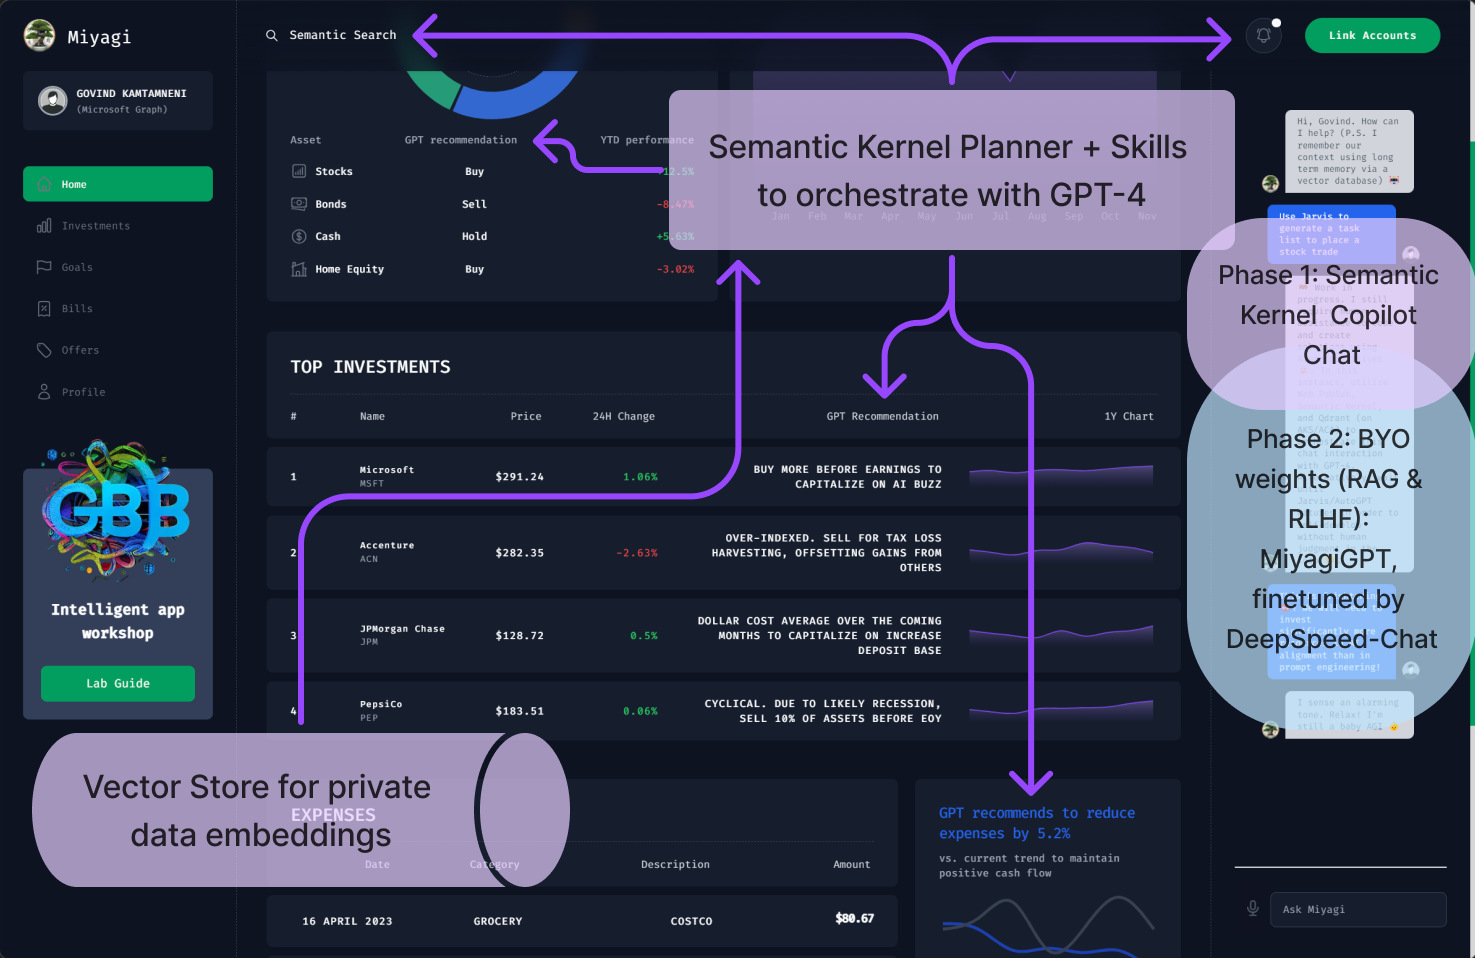
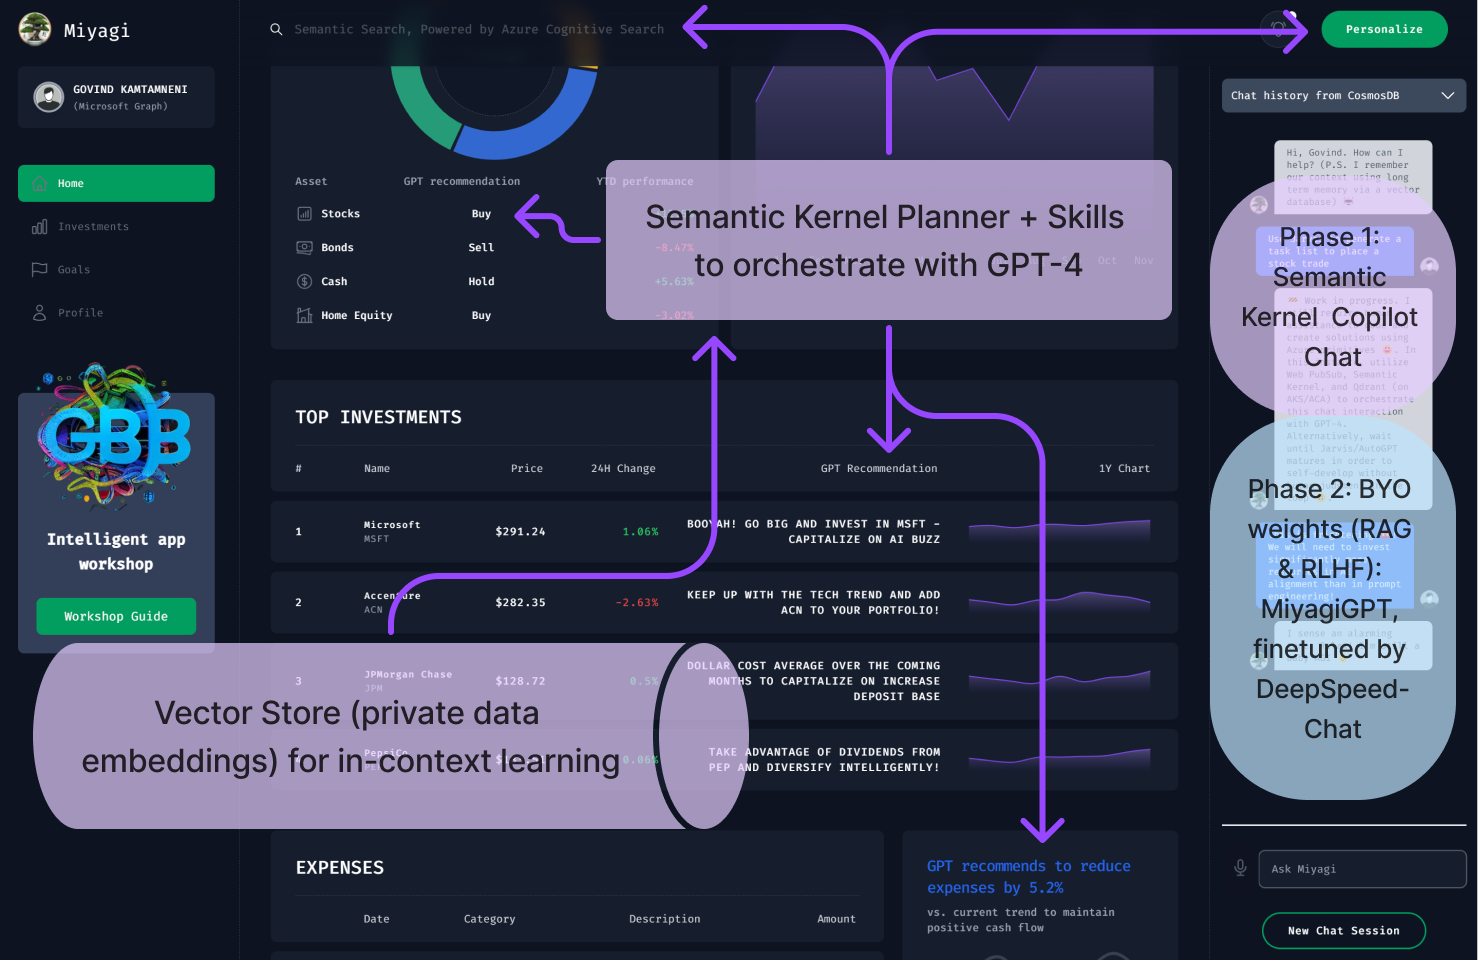
add chat session history on ui

diff --git a/services/frontend/src/components/chat/chat-session-list.tsx b/services/frontend/src/components/chat/chat-session-list.tsx
@@ -1,0 +1,76 @@
+import {Listbox} from "@headlessui/react";
+import cn from "classnames";
+import {ChevronDownIcon} from "@heroicons/react/24/outline";
+import {Fragment, useEffect, useState} from "react";
+import {Transition} from "@/components/ui/transition";
+
+export function ChatSessionList({ className }: { className?: string }) {
+    const [chatSessions, setChatSessions] = useState<any[]>([]);
+    const [selectedSession, setSelectedSession] = useState<any | null>(null);
+
+    useEffect(() => {
+        async function fetchChatSessions() {
+            const response = await fetch("https://f4b7e98a-6c02-41e7-8c24-e735ae1b5b78.mock.pstmn.io/chatSession/getAllChats/govind-k.copilot-chat");
+            const data = await response.json();
+            setChatSessions(data);
+            setSelectedSession(data[data.length - 1]);
+            console.log("Chat sessions");
+            console.dir(chatSessions);
+            console.dir(selectedSession);
+        }
+        fetchChatSessions().then(r => console.log(r));
+    }, []);
+
+    return (
+        <div className="relative w-full lg:w-auto mt-4">
+            <Listbox value={selectedSession} onChange={setSelectedSession}>
+                <Listbox.Button
+                    className={cn(
+                        "flex h-11 w-full items-center justify-between gap-1 rounded-lg bg-slate-600/80 px-3 text-sm text-white",
+                        className
+                    )}
+                >
+                    {selectedSession?.name || "Chat history from CosmosDB"}
+                    <ChevronDownIcon className="h-auto w-6" />
+                </Listbox.Button>
+                <Transition
+                    as={Fragment}
+                    enter="ease-out duration-200"
+                    enterFrom="opacity-0 translate-y-2"
+                    enterTo="opacity-100"
+                    leave="ease-in duration-200"
+                    leaveFrom="opacity-100 -translate-y-0"
+                    leaveTo="opacity-0 translate-y-2"
+                >
+                    <Listbox.Options
+                        className="absolute z-20 mt-2 w-full min-w-[150px] origin-top-right rounded-lg bg-white p-3 px-1.5 shadow-large shadow-gray-400/10 ltr:right-0 rtl:left-0 dark:bg-[rgba(0,0,0,0.5)] dark:shadow-gray-900 dark:backdrop-blur"
+                    >
+                        {chatSessions.map((chat) => {
+                            const chatIdParts = chat.id.split("-");
+                            const chatLabel = chatIdParts[chatIdParts.length - 1];
+
+                            return (
+                                <Listbox.Option
+                                    key={chat.id}
+                                    value={{ ...chat, name: chatLabel }}
+                                >
+                                    {({ selected }) => (
+                                        <div
+                                            className={`block cursor-pointer rounded-lg px-3 py-2 text-sm font-medium text-gray-900 transition dark:text-white  ${
+                                                selected
+                                                    ? "my-1 bg-gray-100 dark:bg-gray-700"
+                                                    : "hover:bg-gray-50 dark:hover:bg-gray-700"
+                                            }`}
+                                        >
+                                            {chatLabel}
+                                        </div>
+                                    )}
+                                </Listbox.Option>
+                            );
+                        })}
+                    </Listbox.Options>
+                </Transition>
+            </Listbox>
+        </div>
+    );
+}

diff --git a/services/frontend/src/data/static/chats.tsx b/services/frontend/src/data/static/chats.tsx
@@ -1,37 +1,47 @@
 export const Chats = [
     {
-        id: 1,
-        actor: 'miyagi',
-        message: 'Hi, Govind. How can I help? (P.S. I remember our context using long term memory via a vector database) 🤖',
-        timestamp: '',
-        config: {}
+        id: "1",
+        content: 'Hi, Govind. How can I help? (P.S. I remember our context using long term memory via a vector database) 🤖',
+        timestamp: '2023-05-04T00:23:50.7919402+00:00',
+        userId: 'bot',
+        userName: 'bot',
+        chatId: '',
+        authorRole: 1
     },
     {
-        id: 2,
-        actor: 'user',
-        message: 'Use Jarvis to generate a task list to place a stock trade',
-        timestamp: '',
-        config: {}
+        id: "2",
+        content: 'Use Jarvis to generate a task list to place a stock trade',
+        timestamp: '2023-05-04T00:24:05.1234567+00:00',
+        userId: 'govind',
+        userName: 'govind',
+        chatId: '',
+        authorRole: 0
     },
     {
-        id: 3,
-        actor: 'miyagi',
-        message: '🚧 Work in progress. I still require human assistance to code and create solutions using Azure primitives 😃. In this instance, utilize Web PubSub, Semantic Kernel, and Qdrant (on AKS/ACA) to orchestrate this chat interaction with GPT-4. Alternatively, wait until Jarvis/AutoGPT matures in order to self-develop without human judgment in the loop 🙃.',
-        timestamp: '',
-        config: {}
+        id: "3",
+        content: '🚧 Work in progress. I still require human assistance to code and create solutions using Azure primitives 😃. In this instance, utilize Web PubSub, Semantic Kernel, and Qdrant (on AKS/ACA) to orchestrate this chat interaction with GPT-4. Alternatively, wait until Jarvis/AutoGPT matures in order to self-develop without human judgment in the loop 🙃.',
+        timestamp: '2023-05-04T00:24:20.8912304+00:00',
+        userId: 'bot',
+        userName: 'bot',
+        chatId: '',
+        authorRole: 1
     },
     {
-        id: 4,
-        actor: 'user',
-        message: 'This is frightening 😡! We will need to invest significantly more resources in AI alignment than in prompt engineering!',
-        timestamp: '',
-        config: {}
+        id: "4",
+        content: 'This is frightening 😡! We will need to invest significantly more resources in AI alignment than in prompt engineering!',
+        timestamp: '2023-05-04T00:24:35.6789012+00:00',
+        userId: 'govind',
+        userName: 'govind',
+        chatId: '',
+        authorRole: 0
     },
     {
-        id: 5,
-        actor: 'miyagi',
-        message: 'I sense an alarming tone. Relax! I\'m still a baby AGI 👶',
-        timestamp: '',
-        config: {}
+        id: "5",
+        content: 'I sense an alarming tone. Relax! I\'m still a baby AGI 👶',
+        timestamp: '2023-05-04T00:24:45.3456789+00:00',
+        userId: 'bot',
+        userName: 'bot',
+        chatId: '',
+        authorRole: 1
     }
 ]

diff --git a/services/frontend/src/layouts/sidebar/chat-blade.tsx b/services/frontend/src/layouts/sidebar/chat-blade.tsx
@@ -5,19 +5,23 @@ import Input from "@/components/ui/forms/input";
 import {Chats} from "@/data/static/chats";
 import ChatMessage from "@/components/chat/chat-message";
 import {useAtom} from "jotai";
-import {chatsAtom, selectedAdvisorAtom} from "@/data/personalize/store";
+import {chatsAtom} from "@/data/personalize/store";
+import { ChatSessionList } from "@/components/chat/chat-session-list";
+import Button from "@/components/ui/button";
 
 export default function Sidebar({ className }: { className?: string }) {
     const [chats, setChatsAtom] = useAtom(chatsAtom);
   return (
-    <aside
-      className={cn(
-        'top-0 z-20 h-full w-full max-w-full border-dashed border-slate-200 ltr:left-0 rtl:right-0 dark:border-gray-700 lg:fixed lg:w-80 ltr:lg:border-l rtl:lg:border-r xl:pt-20 3xl:w-[350px]',
-        className
-      )}
-    >
-      <div className="my-16 mx-5 flex h-full flex-col justify-between overflow-x-hidden rounded-lg bg-transparent sm:mx-6 sm:flex-row lg:mx-0 lg:flex-col lg:p-6 xl:my-0 2xl:p-8">
-      <Scrollbar>
+      <aside
+          className={cn(
+              'top-0 z-20 h-full w-full max-w-full border-dashed border-slate-200 ltr:left-0 rtl:right-0 dark:border-gray-700 lg:fixed lg:w-80 ltr:lg:border-l rtl:lg:border-r xl:pt-20 3xl:w-[350px]',
+              className
+          )}
+      >
+
+      <div className="my-16 mx-5 flex h-full flex-col justify-between overflow-x-hidden rounded-lg bg-transparent sm:mx-6 sm:flex-row lg:mx-0 lg:flex-col lg:p-4 xl:my-0 2xl:p-4">
+          <ChatSessionList className="" />
+          <Scrollbar>
 
             <div className="flex-1 p:2 sm:p-6 justify-between flex flex-col h-screen">
               <div id="messages"
@@ -28,6 +32,7 @@ export default function Sidebar({ className }: { className?: string }) {
               </div>
             </div>
       </Scrollbar>
+
         <div className="border-t-2 border-gray-200 pt-4 mb-2 sm:mb-0 ">
           <div className="relative flex">
          <span className="absolute inset-y-0 flex items-center dark:bg-dark/60">
@@ -45,7 +50,13 @@ export default function Sidebar({ className }: { className?: string }) {
             <div className="absolute right-0 items-center inset-y-0 hidden sm:flex">
 
             </div>
+
           </div>
+            <div className="flex-none w-full mt-2 flex justify-center">
+                <Button variant="ghost" className="mt-2 dark:text-white xs:mt-3 mx-auto">
+                    New Chat Session
+                </Button>
+            </div>
         </div>
       </div>
     </aside>

diff --git a/services/frontend/src/components/chat/chat-message.tsx b/services/frontend/src/components/chat/chat-message.tsx
@@ -5,47 +5,49 @@ import cn from "classnames";
 import {Chats} from "@/data/static/chats";
 
 type ChatProps = {
-  id: number;
-  actor: string;
-  message: string;
+  id: string;
+  authorRole: number;
+  content: string;
   timestamp: string;
-  config: object;
+  userId: string;
+  userName: string;
+  chatId: string;
 };
 
 export default function ChatMessage({ chat }: { chat: ChatProps }) {
   const {
-    actor,
-    message
+    userName,
+    content
   } = chat ?? {};
   return (
-      <div className="chat-message">
+      <div className="chat-content">
         <div className={cn('flex items-end ', {
           'justify-end':
-              actor !== Chats[0].actor,
+              userName !== Chats[0].userName,
         })}>
           <div className={cn('flex flex-col space-y-2 text-xs max-w-xs mx-2 order-2 ', {
             'items-end':
-                actor !== Chats[0].actor,
+                userName !== Chats[0].userName,
             'items-start':
-                actor == Chats[0].actor,
+                userName == Chats[0].userName,
           })}>
             <div><span
                 className={cn('px-4 py-2 rounded-lg inline-block  ', {
                   'rounded-br-none bg-blue-600 text-white':
-                      actor !== Chats[0].actor,
+                      userName !== Chats[0].userName,
                   'rounded-bl-none bg-gray-300 text-gray-600':
-                      actor == Chats[0].actor,
-                })}>{message}</span>
+                      userName == Chats[0].userName,
+                })}>{content}</span>
             </div>
           </div>
           <Image
               width={10} height={10}
-              src={(actor == Chats[0].actor) ? miyagilogo : usericon}
+              src={(userName == Chats[0].userName) ? miyagilogo : usericon}
               alt="Actor" className={cn('w-6 h-6 rounded-full  ', {
             'order-2':
-                actor !== Chats[0].actor,
+                userName !== Chats[0].userName,
             'order-1':
-                actor == Chats[0].actor,
+                userName == Chats[0].userName,
           })} />
         </div>
       </div>

diff --git a/services/frontend/src/data/utils/index.ts b/services/frontend/src/data/utils/index.ts
@@ -1,15 +1,19 @@
 /* eslint-disable import/no-anonymous-default-export */
 import {API_ENDPOINTS} from '@/data/utils/endpoints';
-import type {GetParams, Investments,} from '@/types';
+import type {GetParams, GetParamsChat, Investments,} from '@/types';
 import {HttpClient} from '@/data/utils/client';
 import {MiyagiContext, PersonalizeResponse} from "@/data/utils/types";
 
 class client {
-
-
   personalize = async (requestData: MiyagiContext): Promise<PersonalizeResponse> => {
-    const response = await HttpClient.post<PersonalizeResponse>(`${API_ENDPOINTS.PERSONALIZE}`, requestData);
-    return response;
+    return await HttpClient.post<PersonalizeResponse>(`${API_ENDPOINTS.PERSONALIZE}`, requestData);
+  };
+
+  getAllChats = {
+    get: ({ userId }: GetParamsChat) =>
+        HttpClient.get<Investments>(
+            `${API_ENDPOINTS.ALLCHATS}/${userId}`
+        ),
   };
 
   investments = {

diff --git a/services/frontend/app/chat-session/route.ts b/services/frontend/app/chat-session/route.ts
@@ -1,0 +1,16 @@
+import { NextResponse } from 'next/server';
+
+export async function GET(request: Request) {
+    const { searchParams } = new URL(request.url);
+    const userId = searchParams.get('userId');
+    const RECCOMMENDATION_SERVICE_URL = `${process.env.COPILOT_CHAT_BASE_URL}/chatSession/getAllChats/${userId}`
+    console.log("Request body: ");
+    console.dir(userId)
+    const res = await fetch(RECCOMMENDATION_SERVICE_URL, {
+        method: 'POST',
+        headers: { 'Content-type': `application/json` }
+    });
+
+    const data = await res.json();
+    return NextResponse.json(data);
+}

diff --git a/services/frontend/app/chatSession/getAllChats/route.ts b/services/frontend/app/chatSession/getAllChats/route.ts
@@ -1,0 +1,16 @@
+import { NextResponse } from 'next/server';
+
+export async function GET(request: Request) {
+    const { searchParams } = new URL(request.url);
+    const userId = searchParams.get('userId');
+    const RECCOMMENDATION_SERVICE_URL = `${process.env.COPILOT_CHAT_BASE_URL}/chatSession/getAllChats/${userId}`
+    console.log("Request body: ");
+    console.dir(userId)
+    const res = await fetch(RECCOMMENDATION_SERVICE_URL, {
+        method: 'POST',
+        headers: { 'Content-type': `application/json` }
+    });
+
+    const data = await res.json();
+    return NextResponse.json(data);
+}

diff --git a/services/frontend/src/types/index.ts b/services/frontend/src/types/index.ts
@@ -31,6 +31,11 @@ export interface GetParams {
   language?: string;
 }
 
+export interface GetParamsChat {
+  userId: string;
+  language?: string;
+}
+
 export interface KeyValueListProp {
   id: number;
   name: string;

diff --git a/services/frontend/src/config/routes.ts b/services/frontend/src/config/routes.ts
@@ -2,6 +2,7 @@ const routes = {
   home: '/',
   profile: '/profile',
   investments: '/investments',
+  getAllChats: '/chatSession/getAllChats',
   goals: '/goals',
   search: '/search',
   notification: '/notifications'

diff --git a/services/frontend/src/data/utils/endpoints.ts b/services/frontend/src/data/utils/endpoints.ts
@@ -1,4 +1,5 @@
 export const API_ENDPOINTS = {
   PERSONALIZE: '/personalize',
-  INVESTMENTS: '/investments'
+  INVESTMENTS: '/investments',
+  ALLCHATS: '/chatSession/getAllChats'
 };
